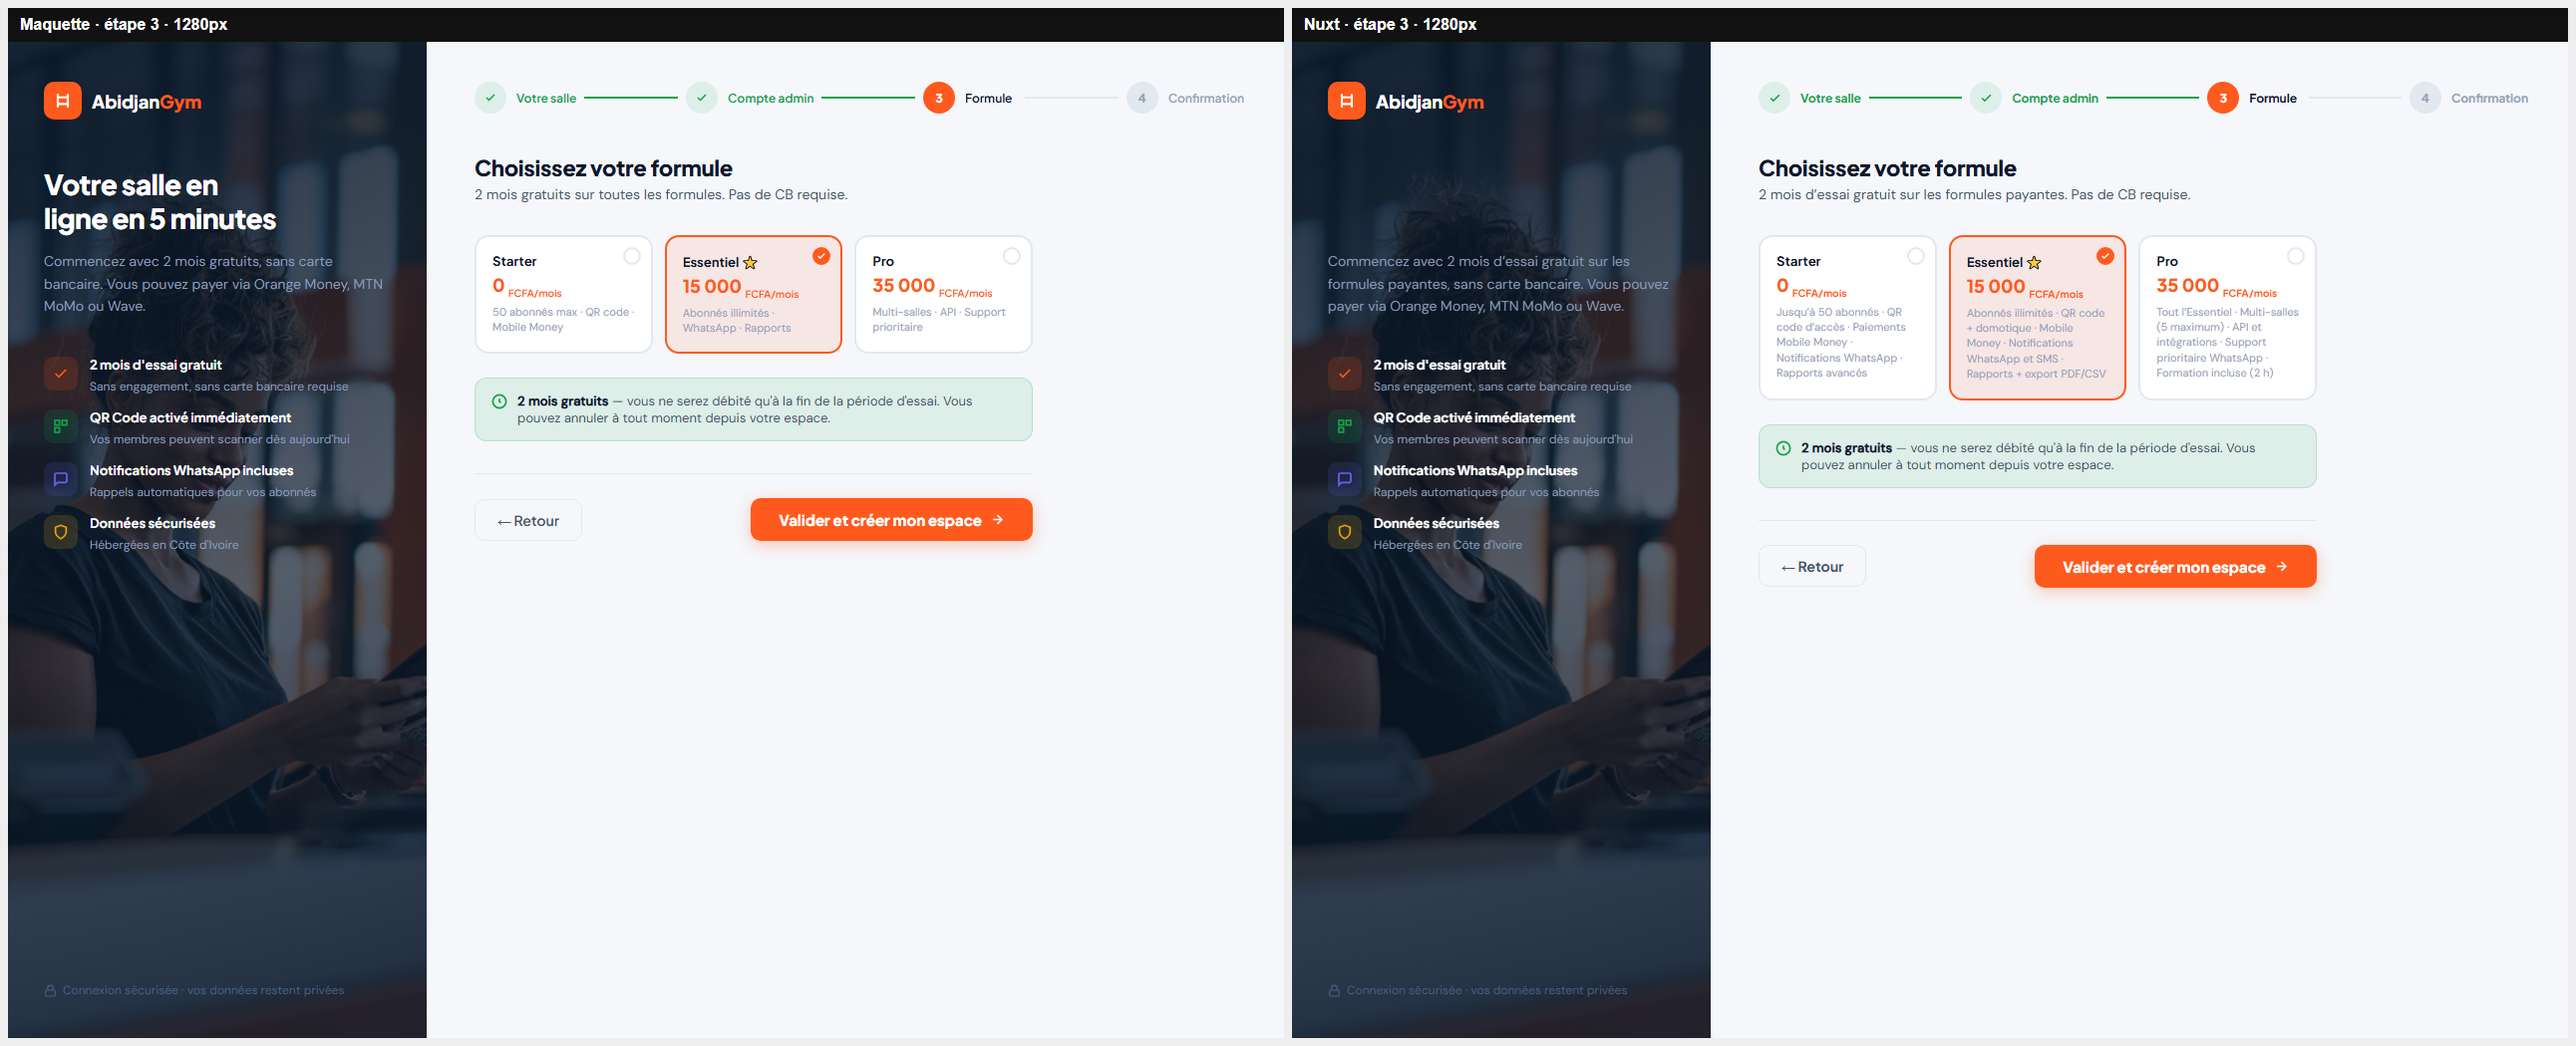
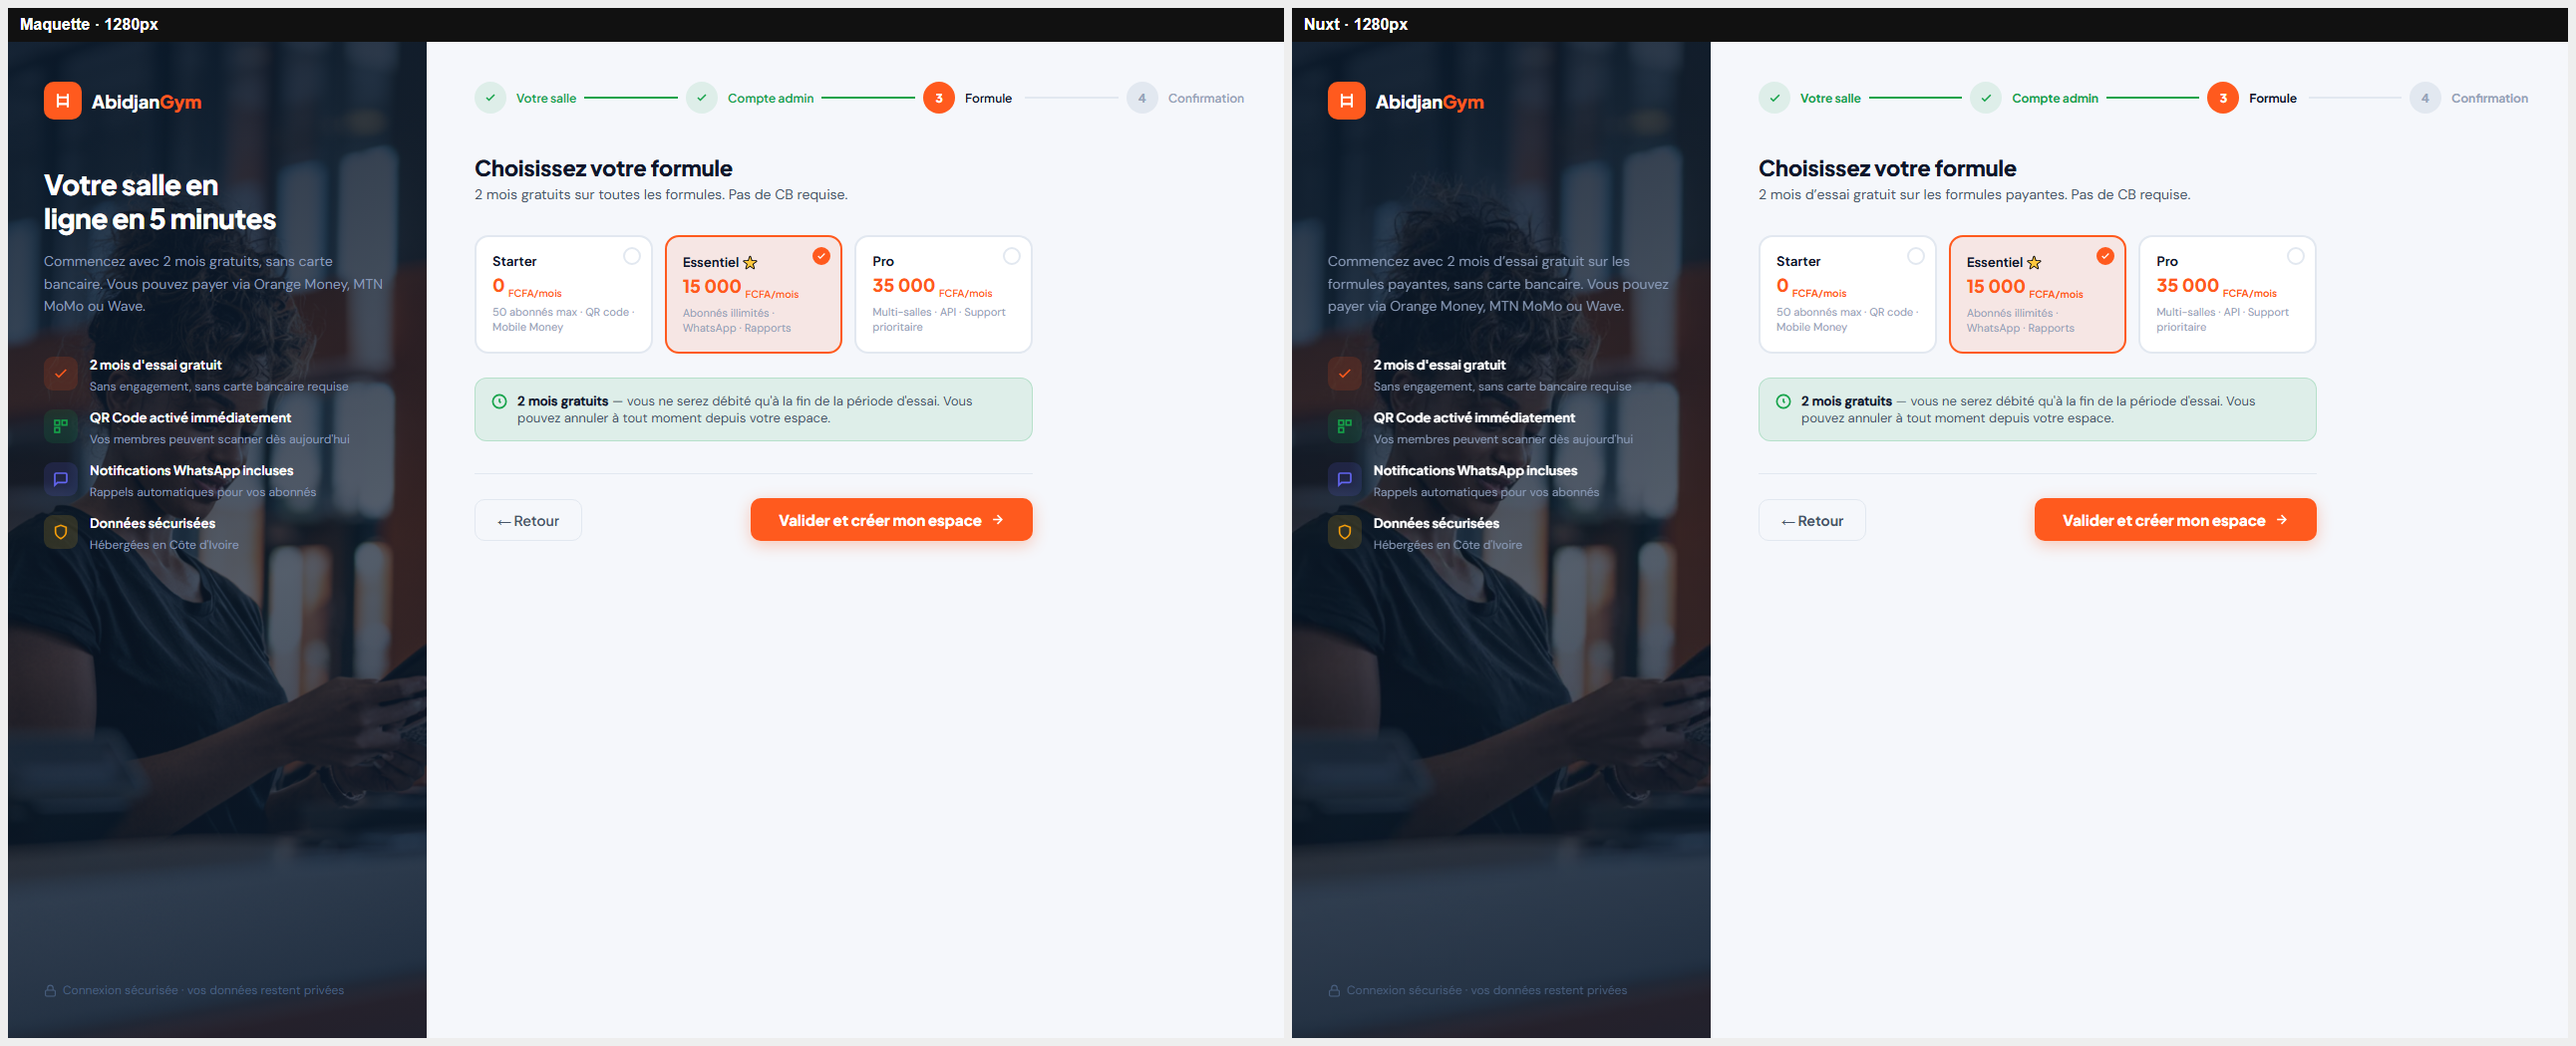
[A] #38 Corriger les formules après relecture
## Résumé
Reprend mot pour mot les avantages des formules indiqués dans demo/onboarding.html. Sur /tarifs, retire les coches Starter de WhatsApp et Rapports, avec les icônes barrées de la maquette.

## Comment tester
Depuis frontend : npm run test (15 tests), npm run lint, npm run generate.

Comparatifs actualisés pour l’étape Formule et /tarifs à 1280 et 375 px.

## Questions [À FOURNIR]
Aucune.

diff --git a/frontend/content/onboarding-body.html b/frontend/content/onboarding-body.html
@@ -453,8 +453,7 @@
               <div class="plan-opt-name">Starter</div>
               <div class="plan-opt-price">0 <sub>FCFA/mois</sub></div>
               <div class="plan-opt-features">
-                Jusqu’à 50 abonnés · QR code d’accès · Paiements Mobile Money ·
-                Notifications WhatsApp · Rapports avancés
+                50 abonnés max · QR code · Mobile Money
               </div>
             </label>
             <label class="plan-opt selected">
@@ -482,8 +481,7 @@
               <div class="plan-opt-name">Essentiel ⭐</div>
               <div class="plan-opt-price">15 000 <sub>FCFA/mois</sub></div>
               <div class="plan-opt-features">
-                Abonnés illimités · QR code + domotique · Mobile Money ·
-                Notifications WhatsApp et SMS · Rapports + export PDF/CSV
+                Abonnés illimités · WhatsApp · Rapports
               </div>
             </label>
             <label class="plan-opt">
@@ -499,9 +497,7 @@
               <div class="plan-opt-name">Pro</div>
               <div class="plan-opt-price">35 000 <sub>FCFA/mois</sub></div>
               <div class="plan-opt-features">
-                Tout l’Essentiel · Multi-salles (5 maximum) · API et
-                intégrations · Support prioritaire WhatsApp · Formation incluse
-                (2 h)
+                Multi-salles · API · Support prioritaire
               </div>
             </label>
           </div>

diff --git a/frontend/content/pricing-body.html b/frontend/content/pricing-body.html
@@ -46,28 +46,30 @@
             <polyline points="20 6 9 17 4 12" /></svg
           >Paiements Mobile Money
         </li>
-        <li>
+        <li class="off">
           <svg
             width="13"
             height="13"
             fill="none"
-            stroke="var(--ok)"
-            stroke-width="2.5"
+            stroke="currentColor"
+            stroke-width="2"
             viewBox="0 0 24 24"
           >
-            <polyline points="20 6 9 17 4 12" /></svg
+            <line x1="18" y1="6" x2="6" y2="18" />
+            <line x1="6" y1="6" x2="18" y2="18" /></svg
           >Notifications WhatsApp
         </li>
-        <li>
+        <li class="off">
           <svg
             width="13"
             height="13"
             fill="none"
-            stroke="var(--ok)"
-            stroke-width="2.5"
+            stroke="currentColor"
+            stroke-width="2"
             viewBox="0 0 24 24"
           >
-            <polyline points="20 6 9 17 4 12" /></svg
+            <line x1="18" y1="6" x2="6" y2="18" />
+            <line x1="6" y1="6" x2="18" y2="18" /></svg
           >Rapports avancés
         </li>
       </ul>
